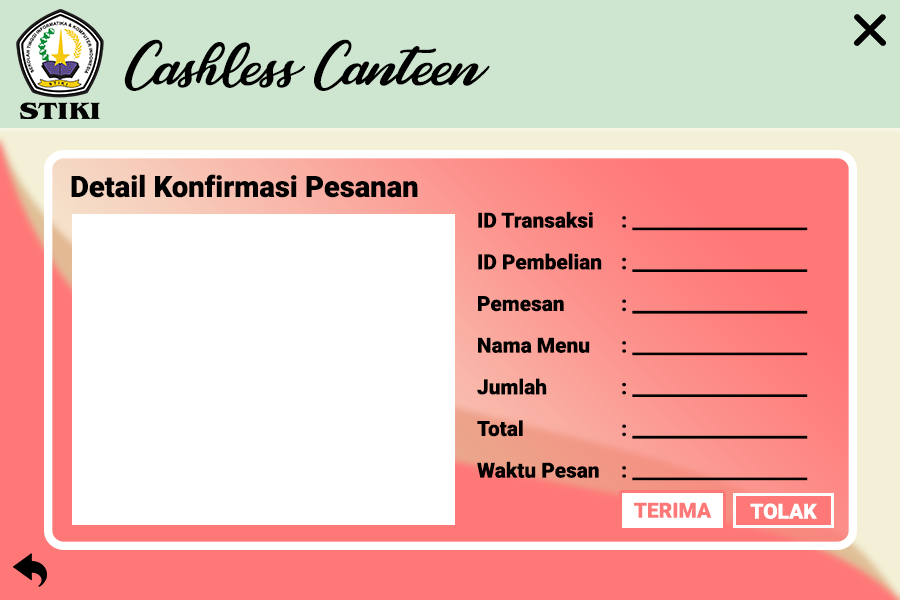
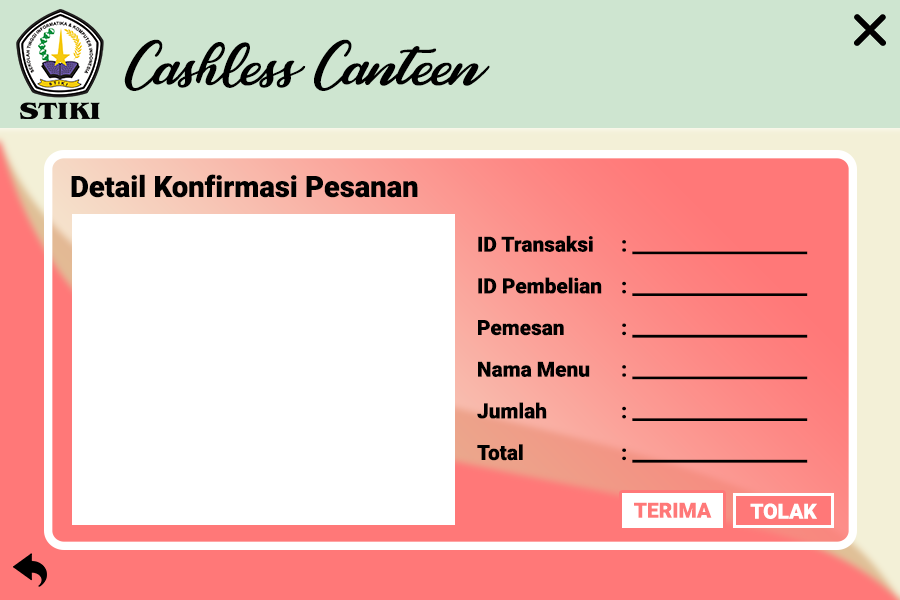
Update riwayat pesanan toko

Changed region(s): [[0.5289, 0.33, 0.9022, 0.81], [0.6844, 0.36, 0.9022, 0.39]]

diff --git a/src/Toko/Riwayat_Pesanan_Toko.java b/src/Toko/Riwayat_Pesanan_Toko.java
@@ -83,7 +83,7 @@ public class Riwayat_Pesanan_Toko extends javax.swing.JFrame {
         btn_back = new javax.swing.JLabel();
         btn_close = new javax.swing.JLabel();
         btn_detail = new javax.swing.JLabel();
-        btn_menunggu = new javax.swing.JLabel();
+        btn_penarikan = new javax.swing.JLabel();
         btn_tolak = new javax.swing.JLabel();
         btn_terima = new javax.swing.JLabel();
         jScrollPane1 = new javax.swing.JScrollPane();
@@ -115,7 +115,13 @@ public class Riwayat_Pesanan_Toko extends javax.swing.JFrame {
             }
         });
         getContentPane().add(btn_detail, new org.netbeans.lib.awtextra.AbsoluteConstraints(715, 495, 115, 36));
-        getContentPane().add(btn_menunggu, new org.netbeans.lib.awtextra.AbsoluteConstraints(70, 391, 80, 80));
+
+        btn_penarikan.addMouseListener(new java.awt.event.MouseAdapter() {
+            public void mouseClicked(java.awt.event.MouseEvent evt) {
+                btn_penarikanMouseClicked(evt);
+            }
+        });
+        getContentPane().add(btn_penarikan, new org.netbeans.lib.awtextra.AbsoluteConstraints(70, 391, 80, 80));
 
         btn_tolak.addMouseListener(new java.awt.event.MouseAdapter() {
             public void mouseClicked(java.awt.event.MouseEvent evt) {
@@ -186,78 +192,116 @@ public class Riwayat_Pesanan_Toko extends javax.swing.JFrame {
     private void btn_terimaMouseClicked(java.awt.event.MouseEvent evt) {//GEN-FIRST:event_btn_terimaMouseClicked
         // TODO add your handling code here:
         DefaultTableModel table_data = new DefaultTableModel();
-        table_data.addColumn("Id Pembelian");
-        table_data.addColumn("Nama Menu");
-        table_data.addColumn("Jumlah");
-        table_data.addColumn("Harga Total");
-        table_data.addColumn("Tanggal Transaksi");
+        table_data.addColumn("Id Transaksi");
+        table_data.addColumn("Nama Pemesan");
+        table_data.addColumn("Total Transaksi");
+        table_data.addColumn("Tanggal Penarikan");
         table_data.addColumn("Status");
         tbl_pesanan.setModel(table_data);
         
         try{
-            rs = stm.executeQuery("SELECT dp.id_detail_pembelian, m.nama_menu, dp.jumlah, dp.subtotal, t.waktu_transaksi, dp.status"
+            rs = stm.executeQuery("SELECT t.id_transaksi, pl.nama_pelanggan, t.total_transaksi, t.waktu_transaksi, t.status"
                     + " FROM detail_pembelian dp"
                     + " JOIN menu m ON m.id_menu = dp.id_menu"
                     + " JOIN pembelian p ON p.id_pembelian = dp.id_pembelian"
                     + " JOIN transaksi t ON t.id_transaksi = p.id_transaksi"
+                    + " JOIN user u ON u.id_user = t.id_user"
+                    + " JOIN pelanggan pl ON pl.id_user = t.id_user"
                     + " WHERE p.id_toko = (SELECT id_toko FROM toko WHERE id_user = '" + toko_login.id_user + "')"
-                    + " AND dp.status = 'Diterima'"
+                    + " AND t.jenis_transaksi = 'Pembelian'"
+                    + " AND t.status = 'Berhasil'"
                     + " ORDER BY t.waktu_transaksi DESC");
             
             while(rs.next()){
-                Object[] data = new Object[6];
-                data[0] = rs.getString("id_detail_pembelian");
-                data[1] = rs.getString("nama_menu");
-                data[2] = rs.getString("jumlah");
-                data[3] = rs.getString("subtotal");
-                data[4] = rs.getString("Waktu_transaksi");
-                data[5] = rs.getString("status");
+                Object[] data = new Object[5];
+                data[0] = rs.getString("id_transaksi");
+                data[1] = rs.getString("nama_pelanggan");
+                data[2] = rs.getString("total_transaksi");
+                data[3] = rs.getString("waktu_transaksi");
+                data[4] = rs.getString("status");
                 table_data.addRow(data);
                 tbl_pesanan.setModel(table_data);
             }
         }catch (SQLException e){
-            JOptionPane.showMessageDialog(null,"Error!");
+            JOptionPane.showMessageDialog(null, e);
         }
-
     }//GEN-LAST:event_btn_terimaMouseClicked
 
     private void btn_tolakMouseClicked(java.awt.event.MouseEvent evt) {//GEN-FIRST:event_btn_tolakMouseClicked
         // TODO add your handling code here:
         DefaultTableModel table_data = new DefaultTableModel();
-        table_data.addColumn("Id Pembelian");
-        table_data.addColumn("Nama Menu");
-        table_data.addColumn("Jumlah");
-        table_data.addColumn("Harga Total");
-        table_data.addColumn("Tanggal Transaksi");
+        table_data.addColumn("Id Transaksi");
+        table_data.addColumn("Nama Pemesan");
+        table_data.addColumn("Total Transaksi");
+        table_data.addColumn("Tanggal Penarikan");
         table_data.addColumn("Status");
         tbl_pesanan.setModel(table_data);
         
         try{
-            rs = stm.executeQuery("SELECT dp.id_detail_pembelian, m.nama_menu, dp.jumlah, dp.subtotal, t.waktu_transaksi, dp.status"
+            rs = stm.executeQuery("SELECT t.id_transaksi, pl.nama_pelanggan, t.total_transaksi, t.waktu_transaksi, t.status"
                     + " FROM detail_pembelian dp"
                     + " JOIN menu m ON m.id_menu = dp.id_menu"
                     + " JOIN pembelian p ON p.id_pembelian = dp.id_pembelian"
                     + " JOIN transaksi t ON t.id_transaksi = p.id_transaksi"
+                    + " JOIN user u ON u.id_user = t.id_user"
+                    + " JOIN pelanggan pl ON pl.id_user = t.id_user"
                     + " WHERE p.id_toko = (SELECT id_toko FROM toko WHERE id_user = '" + toko_login.id_user + "')"
-                    + " AND dp.status = 'Ditolak'"
+                    + " AND t.jenis_transaksi = 'Pembelian'"
+                    + " AND t.status = 'Ditolak'"
                     + " ORDER BY t.waktu_transaksi DESC");
             
             while(rs.next()){
-                Object[] data = new Object[6];
-                data[0] = rs.getString("id_detail_pembelian");
-                data[1] = rs.getString("nama_menu");
-                data[2] = rs.getString("jumlah");
-                data[3] = rs.getString("subtotal");
-                data[4] = rs.getString("Waktu_transaksi");
-                data[5] = rs.getString("status");
+                Object[] data = new Object[5];
+                data[0] = rs.getString("id_transaksi");
+                data[1] = rs.getString("nama_pelanggan");
+                data[2] = rs.getString("total_transaksi");
+                data[3] = rs.getString("waktu_transaksi");
+                data[4] = rs.getString("status");
                 table_data.addRow(data);
                 tbl_pesanan.setModel(table_data);
             }
         }catch (SQLException e){
-            JOptionPane.showMessageDialog(null,"Error!");
+            JOptionPane.showMessageDialog(null, e);
         }
-
     }//GEN-LAST:event_btn_tolakMouseClicked
+
+    private void btn_penarikanMouseClicked(java.awt.event.MouseEvent evt) {//GEN-FIRST:event_btn_penarikanMouseClicked
+        // TODO add your handling code here:
+        DefaultTableModel table_data = new DefaultTableModel();
+        table_data.addColumn("Id Transaksi");
+        table_data.addColumn("Nama User");
+        table_data.addColumn("Total Penarikan");
+        table_data.addColumn("Tanggal Penarikan");
+        table_data.addColumn("Status");
+        tbl_pesanan.setModel(table_data);
+        
+        try{
+            rs = stm.executeQuery("SELECT t.id_transaksi, pl.nama_pelanggan, t.total_transaksi, t.waktu_transaksi, t.status"
+                    + " FROM detail_pembelian dp"
+                    + " JOIN menu m ON m.id_menu = dp.id_menu"
+                    + " JOIN pembelian p ON p.id_pembelian = dp.id_pembelian"
+                    + " JOIN transaksi t ON t.id_transaksi = p.id_transaksi"
+                    + " JOIN user u ON u.id_user = t.id_user"
+                    + " JOIN pelanggan pl ON pl.id_user = t.id_user"
+                    + " WHERE p.id_toko = (SELECT id_toko FROM toko WHERE id_user = '" + toko_login.id_user + "')"
+                    + " AND t.jenis_transaksi = 'Penarikan'"
+                    + " AND t.status = 'Berhasil'"
+                    + " ORDER BY t.waktu_transaksi DESC");
+            
+            while(rs.next()){
+                Object[] data = new Object[5];
+                data[0] = rs.getString("id_transaksi");
+                data[1] = rs.getString("nama_toko");
+                data[2] = rs.getString("total_transaksi");
+                data[3] = rs.getString("waktu_transaksi");
+                data[4] = rs.getString("status");
+                table_data.addRow(data);
+                tbl_pesanan.setModel(table_data);
+            }
+        }catch (SQLException e){
+            JOptionPane.showMessageDialog(null, e);
+        }
+    }//GEN-LAST:event_btn_penarikanMouseClicked
 
     /**
      * @param args the command line arguments
@@ -299,7 +343,7 @@ public class Riwayat_Pesanan_Toko extends javax.swing.JFrame {
     private javax.swing.JLabel btn_back;
     private javax.swing.JLabel btn_close;
     private javax.swing.JLabel btn_detail;
-    private javax.swing.JLabel btn_menunggu;
+    private javax.swing.JLabel btn_penarikan;
     private javax.swing.JLabel btn_terima;
     private javax.swing.JLabel btn_tolak;
     private javax.swing.JScrollPane jScrollPane1;

diff --git a/src/Toko/Detail_Konfirmasi_Pesanan_Toko.java b/src/Toko/Detail_Konfirmasi_Pesanan_Toko.java
@@ -40,12 +40,11 @@ public class Detail_Konfirmasi_Pesanan_Toko extends javax.swing.JFrame {
         txt_nama_menu.setBackground(new Color(0, 0, 0, 0));
         txt_jumlah.setBackground(new Color(0, 0, 0, 0));
         txt_total.setBackground(new Color(0, 0, 0, 0));
-        txt_waktu_pesan.setBackground(new Color(0, 0, 0, 0));
     }
 
     public void set_data(String id, String nama){
         DefaultTableModel table_data = new DefaultTableModel();
-        table_data.addColumn("ID Menu");
+        table_data.addColumn("Id pembelian");
         table_data.addColumn("Nama Menu");
         table_data.addColumn("Harga");
         table_data.addColumn("Jumlah");
@@ -55,29 +54,32 @@ public class Detail_Konfirmasi_Pesanan_Toko extends javax.swing.JFrame {
         try{
             rs = stm.executeQuery("SELECT * FROM transaksi INNER JOIN pembelian ON transaksi.id_transaksi = pembelian.id_transaksi INNER JOIN detail_pembelian ON pembelian.id_pembelian = detail_pembelian.id_pembelian INNER JOIN menu ON detail_pembelian.id_menu = menu.id_menu WHERE transaksi.id_transaksi = '"+id+"'");
             while (rs.next()){
-                Object[] data = new Object[7];
-                data[0] = rs.getString("id_menu");
+                Object[] data = new Object[5];
+                data[0] = rs.getString("id_pembelian");
                 data[1] = rs.getString("nama_menu");
-                data[3] = rs.getString("harga_satuan");
-                data[4] = rs.getString("jumlah");
-                data[5] = rs.getString("subtotal");
+                data[2] = rs.getString("harga_satuan");
+                data[3] = rs.getString("jumlah");
+                data[4] = rs.getString("subtotal");
                 table_data.addRow(data);
                 tbl_transaksi.setModel(table_data);
             }
-            rs = stm.executeQuery("SELECT * FROM transaksi INNER JOIN pembelian ON transaksi.id_transaksi = pembelian.id_transaksi WHERE transaksi.id_transaksi = '"+id+"'");
+            rs = stm.executeQuery("SELECT * FROM transaksi "
+                    + "JOIN pembelian ON transaksi.id_transaksi = pembelian.id_transaksi "
+                    + "JOIN detail_pembelian ON detail_pembelian.id_pembelian = pembelian.id_pembelian "
+                    + "JOIN menu ON menu.id_menu = detail_pembelian.id_menu "
+                    + "WHERE transaksi.id_transaksi = '"+id+"'");
             rs.next();
             txt_id_transaksi.setText(rs.getString("id_transaksi"));
             txt_id_pembelian.setText(rs.getString("id_pembelian"));
+            txt_nama_menu.setText(rs.getString("nama_menu"));
+            txt_jumlah.setText(rs.getString("jumlah"));
             txt_nama_user.setText(nama);
             txt_total.setText(String.valueOf(-rs.getInt("total_transaksi")));
-            txt_waktu_pesan.setText(rs.getString("waktu_transaksi"));
             this.id_user = rs.getInt("id_user");
-            
             rs.close();
         }catch (SQLException e) {
             JOptionPane.showMessageDialog(null, e);
         }
-        
     }
     
     private void kembali(){                        
@@ -100,7 +102,6 @@ public class Detail_Konfirmasi_Pesanan_Toko extends javax.swing.JFrame {
         txt_nama_menu = new javax.swing.JTextField();
         txt_jumlah = new javax.swing.JTextField();
         txt_total = new javax.swing.JTextField();
-        txt_waktu_pesan = new javax.swing.JTextField();
         btn_terima = new javax.swing.JLabel();
         btn_tolak = new javax.swing.JLabel();
         btn_close = new javax.swing.JLabel();
@@ -122,7 +123,7 @@ public class Detail_Konfirmasi_Pesanan_Toko extends javax.swing.JFrame {
                 txt_id_transaksiActionPerformed(evt);
             }
         });
-        getContentPane().add(txt_id_transaksi, new org.netbeans.lib.awtextra.AbsoluteConstraints(632, 205, 175, -1));
+        getContentPane().add(txt_id_transaksi, new org.netbeans.lib.awtextra.AbsoluteConstraints(632, 229, 175, -1));
 
         txt_id_pembelian.setEditable(false);
         txt_id_pembelian.setFont(new java.awt.Font("Times New Roman", 1, 18)); // NOI18N
@@ -132,7 +133,7 @@ public class Detail_Konfirmasi_Pesanan_Toko extends javax.swing.JFrame {
                 txt_id_pembelianActionPerformed(evt);
             }
         });
-        getContentPane().add(txt_id_pembelian, new org.netbeans.lib.awtextra.AbsoluteConstraints(632, 246, 175, -1));
+        getContentPane().add(txt_id_pembelian, new org.netbeans.lib.awtextra.AbsoluteConstraints(632, 270, 175, -1));
 
         txt_nama_user.setEditable(false);
         txt_nama_user.setFont(new java.awt.Font("Times New Roman", 1, 18)); // NOI18N
@@ -142,12 +143,12 @@ public class Detail_Konfirmasi_Pesanan_Toko extends javax.swing.JFrame {
                 txt_nama_userActionPerformed(evt);
             }
         });
-        getContentPane().add(txt_nama_user, new org.netbeans.lib.awtextra.AbsoluteConstraints(632, 288, 175, -1));
+        getContentPane().add(txt_nama_user, new org.netbeans.lib.awtextra.AbsoluteConstraints(632, 313, 175, -1));
 
         txt_nama_menu.setEditable(false);
         txt_nama_menu.setFont(new java.awt.Font("Times New Roman", 1, 18)); // NOI18N
         txt_nama_menu.setBorder(null);
-        getContentPane().add(txt_nama_menu, new org.netbeans.lib.awtextra.AbsoluteConstraints(632, 329, 175, -1));
+        getContentPane().add(txt_nama_menu, new org.netbeans.lib.awtextra.AbsoluteConstraints(632, 354, 175, -1));
 
         txt_jumlah.setEditable(false);
         txt_jumlah.setFont(new java.awt.Font("Times New Roman", 1, 18)); // NOI18N
@@ -157,22 +158,12 @@ public class Detail_Konfirmasi_Pesanan_Toko extends javax.swing.JFrame {
                 txt_jumlahActionPerformed(evt);
             }
         });
-        getContentPane().add(txt_jumlah, new org.netbeans.lib.awtextra.AbsoluteConstraints(632, 371, 175, -1));
+        getContentPane().add(txt_jumlah, new org.netbeans.lib.awtextra.AbsoluteConstraints(632, 395, 175, -1));
 
         txt_total.setEditable(false);
         txt_total.setFont(new java.awt.Font("Times New Roman", 1, 18)); // NOI18N
         txt_total.setBorder(null);
-        getContentPane().add(txt_total, new org.netbeans.lib.awtextra.AbsoluteConstraints(632, 413, 175, -1));
-
-        txt_waktu_pesan.setEditable(false);
-        txt_waktu_pesan.setFont(new java.awt.Font("Times New Roman", 1, 18)); // NOI18N
-        txt_waktu_pesan.setBorder(null);
-        txt_waktu_pesan.addActionListener(new java.awt.event.ActionListener() {
-            public void actionPerformed(java.awt.event.ActionEvent evt) {
-                txt_waktu_pesanActionPerformed(evt);
-            }
-        });
-        getContentPane().add(txt_waktu_pesan, new org.netbeans.lib.awtextra.AbsoluteConstraints(632, 454, 175, -1));
+        getContentPane().add(txt_total, new org.netbeans.lib.awtextra.AbsoluteConstraints(632, 437, 175, -1));
 
         btn_terima.setCursor(new java.awt.Cursor(java.awt.Cursor.HAND_CURSOR));
         btn_terima.addMouseListener(new java.awt.event.MouseAdapter() {
@@ -248,6 +239,15 @@ public class Detail_Konfirmasi_Pesanan_Toko extends javax.swing.JFrame {
 
     private void tbl_transaksiMouseClicked(java.awt.event.MouseEvent evt) {//GEN-FIRST:event_tbl_transaksiMouseClicked
         // TODO add your handling code here:
+        int baris = tbl_transaksi.rowAtPoint(evt.getPoint());
+        String id_pembelian = tbl_transaksi.getValueAt(baris, 0).toString();
+        txt_id_pembelian.setText(id_pembelian);
+        String nama_menu = tbl_transaksi.getValueAt(baris,1).toString();
+        txt_nama_menu.setText(nama_menu);
+        String total = tbl_transaksi.getValueAt(baris, 3).toString();
+        txt_jumlah.setText(total);
+        String harga = tbl_transaksi.getValueAt(baris, 4).toString();
+        txt_total.setText(harga);
     }//GEN-LAST:event_tbl_transaksiMouseClicked
 
     private void btn_backMouseClicked(java.awt.event.MouseEvent evt) {//GEN-FIRST:event_btn_backMouseClicked
@@ -258,10 +258,6 @@ public class Detail_Konfirmasi_Pesanan_Toko extends javax.swing.JFrame {
     private void txt_id_transaksiActionPerformed(java.awt.event.ActionEvent evt) {//GEN-FIRST:event_txt_id_transaksiActionPerformed
         // TODO add your handling code here:
     }//GEN-LAST:event_txt_id_transaksiActionPerformed
-
-    private void txt_waktu_pesanActionPerformed(java.awt.event.ActionEvent evt) {//GEN-FIRST:event_txt_waktu_pesanActionPerformed
-        // TODO add your handling code here:
-    }//GEN-LAST:event_txt_waktu_pesanActionPerformed
 
     private void btn_terimaMouseClicked(java.awt.event.MouseEvent evt) {//GEN-FIRST:event_btn_terimaMouseClicked
         // TODO add your handling code here:
@@ -356,6 +352,5 @@ public class Detail_Konfirmasi_Pesanan_Toko extends javax.swing.JFrame {
     private javax.swing.JTextField txt_nama_menu;
     private javax.swing.JTextField txt_nama_user;
     private javax.swing.JTextField txt_total;
-    private javax.swing.JTextField txt_waktu_pesan;
     // End of variables declaration//GEN-END:variables
 }

diff --git a/src/Toko/Detail_Riwayat_Pesanan.java b/src/Toko/Detail_Riwayat_Pesanan.java
@@ -208,6 +208,7 @@ public class Detail_Riwayat_Pesanan extends javax.swing.JFrame {
 
     private void btn_cetakMouseClicked(java.awt.event.MouseEvent evt) {//GEN-FIRST:event_btn_cetakMouseClicked
         // TODO add your handling code here:
+        
     }//GEN-LAST:event_btn_cetakMouseClicked
 
     /**
